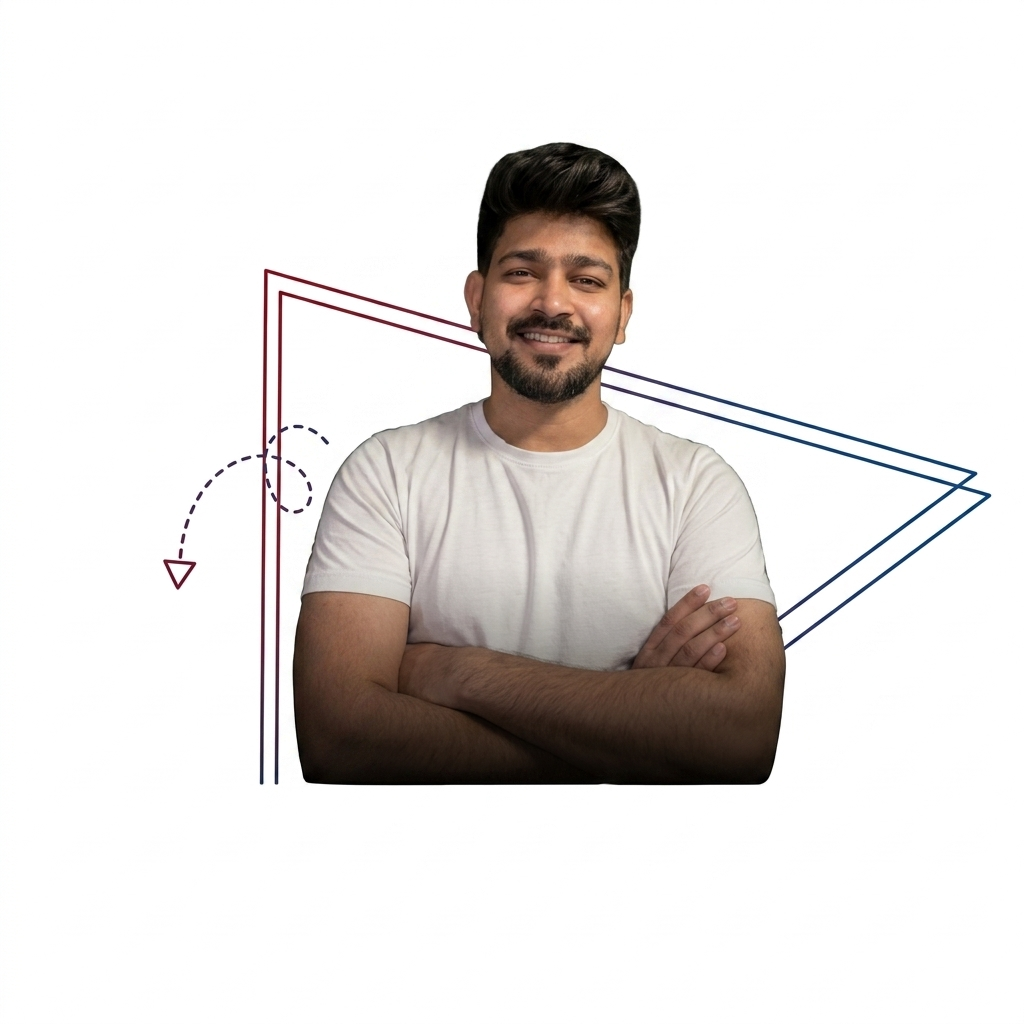
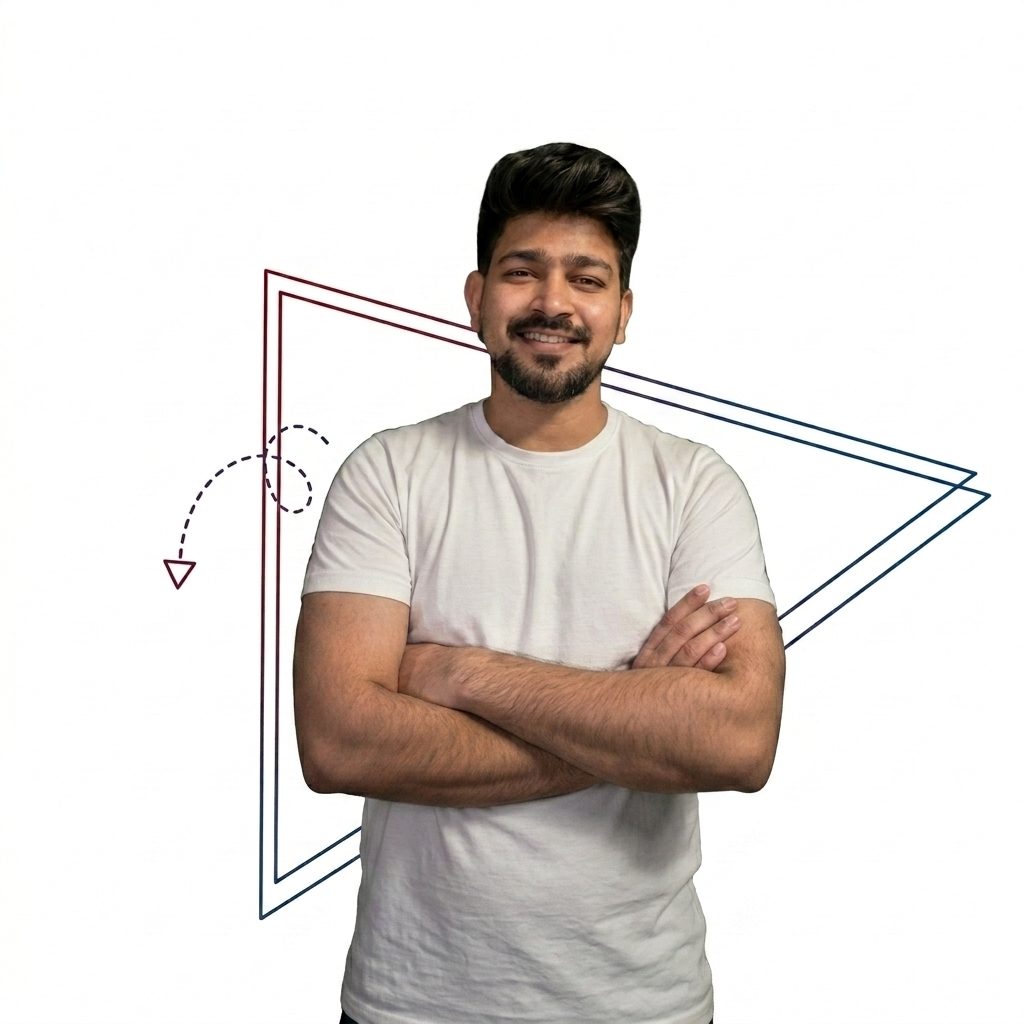
feat: replace platform hero with natural lighting hands image and align rightwards

Changed region(s): [[0.25, 0.5625, 0.7812, 1.0], [0.25, 0.2812, 0.2812, 0.375]]

diff --git a/Sections/Platform.tsx b/Sections/Platform.tsx
@@ -216,7 +216,7 @@ const Platform: React.FC<PlatformProps> = ({ navigateTo }) => {
         </div>
 
         {/* Right Side: Hero Image Showcase */}
-        <div className="flex-1 w-full flex justify-center md:justify-end items-center select-none pointer-events-none">
+        <div className="flex-1 w-full flex justify-center md:justify-end items-center select-none pointer-events-none md:-mr-12 lg:-mr-16">
           <div className="relative w-full flex justify-center md:justify-end items-center">
             {/* Soft creative background gradient highlights behind the image */}
             <div className="absolute top-1/2 left-1/2 md:left-auto md:right-12 -translate-x-1/2 md:translate-x-0 -translate-y-1/2 w-96 h-96 rounded-full bg-gradient-to-tr from-green-100/35 to-indigo-100/35 blur-3xl -z-10" />
